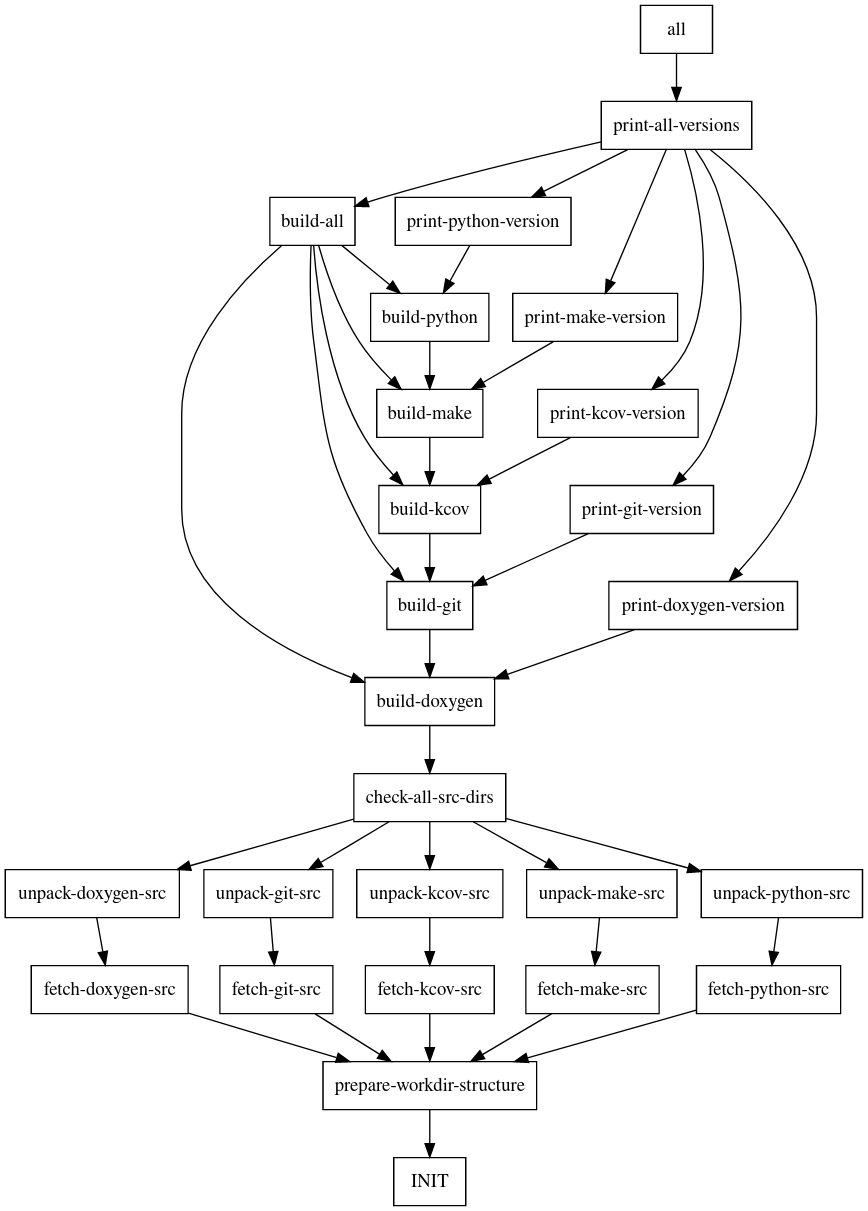
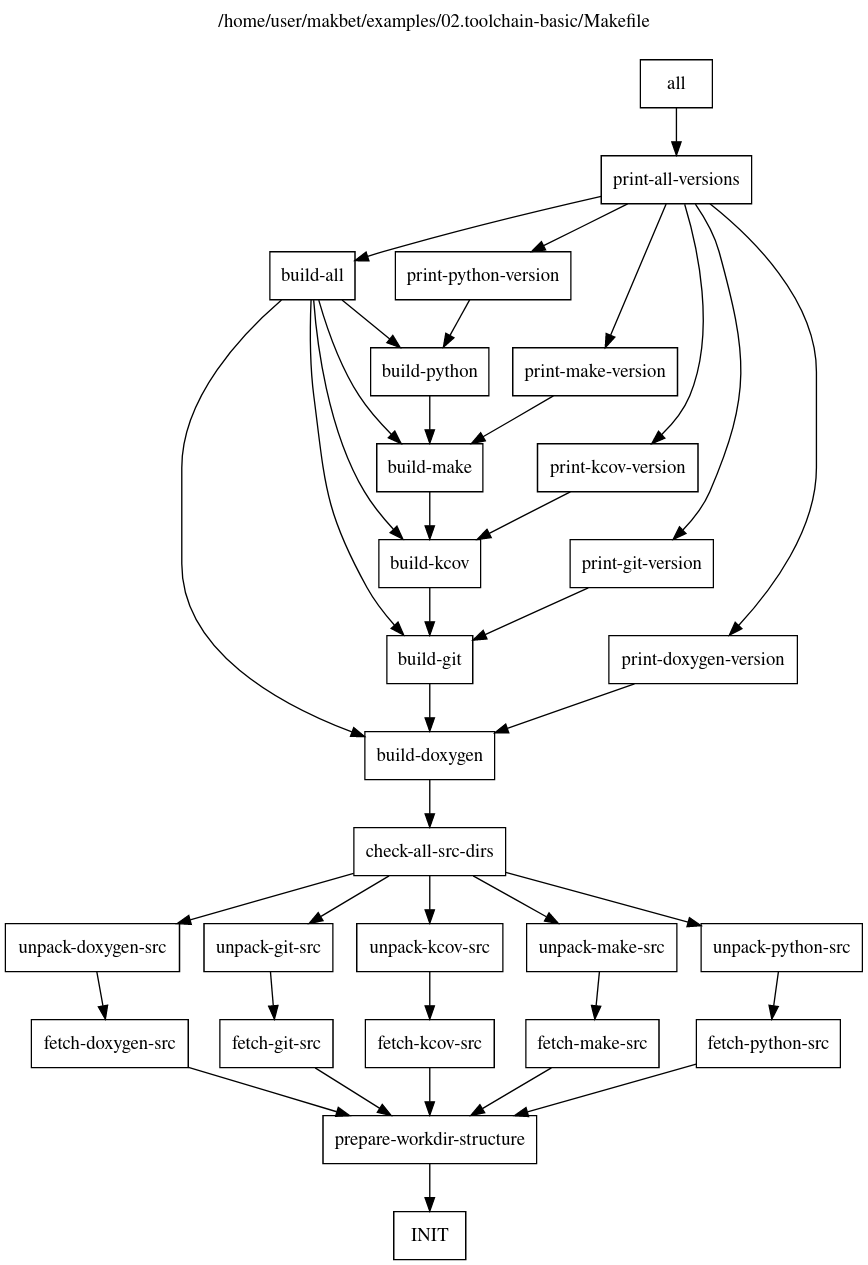
[#76] Decorate DOT output - add title
Use absolute scenario's path (an absolute path to scenario's Makefile
file) as graph title in DOT output.  Adapt all example *.dot files
as well as *.png results.  Align top-level README.rst too.

diff --git a/README.rst b/README.rst
@@ -173,9 +173,13 @@ results which can be used for further processing:
 
     digraph {
 
-        // Generated automatically by makbet heads/master-0-g351d0e3
-        // Generation date: Mon 10 Aug 2020 00:00:57 AM CEST
+        // Generated automatically by makbet heads/master-0-g88262d1
+        // Generation date: Wed 19 Aug 2020 01:21:07 AM CEST
         // Input: /home/user/makbet/examples/01.dummy/Makefile
+
+        // Graph title.
+        labelloc="t";
+        label="/home/user/makbet/examples/01.dummy/Makefile\n\n"
 
         node [shape=box];
 
@@ -206,7 +210,6 @@ results which can be used for further processing:
         "task-E" -> "task-D";
 
         "task-F" -> "task-E";
-
 
         // End of file
 
